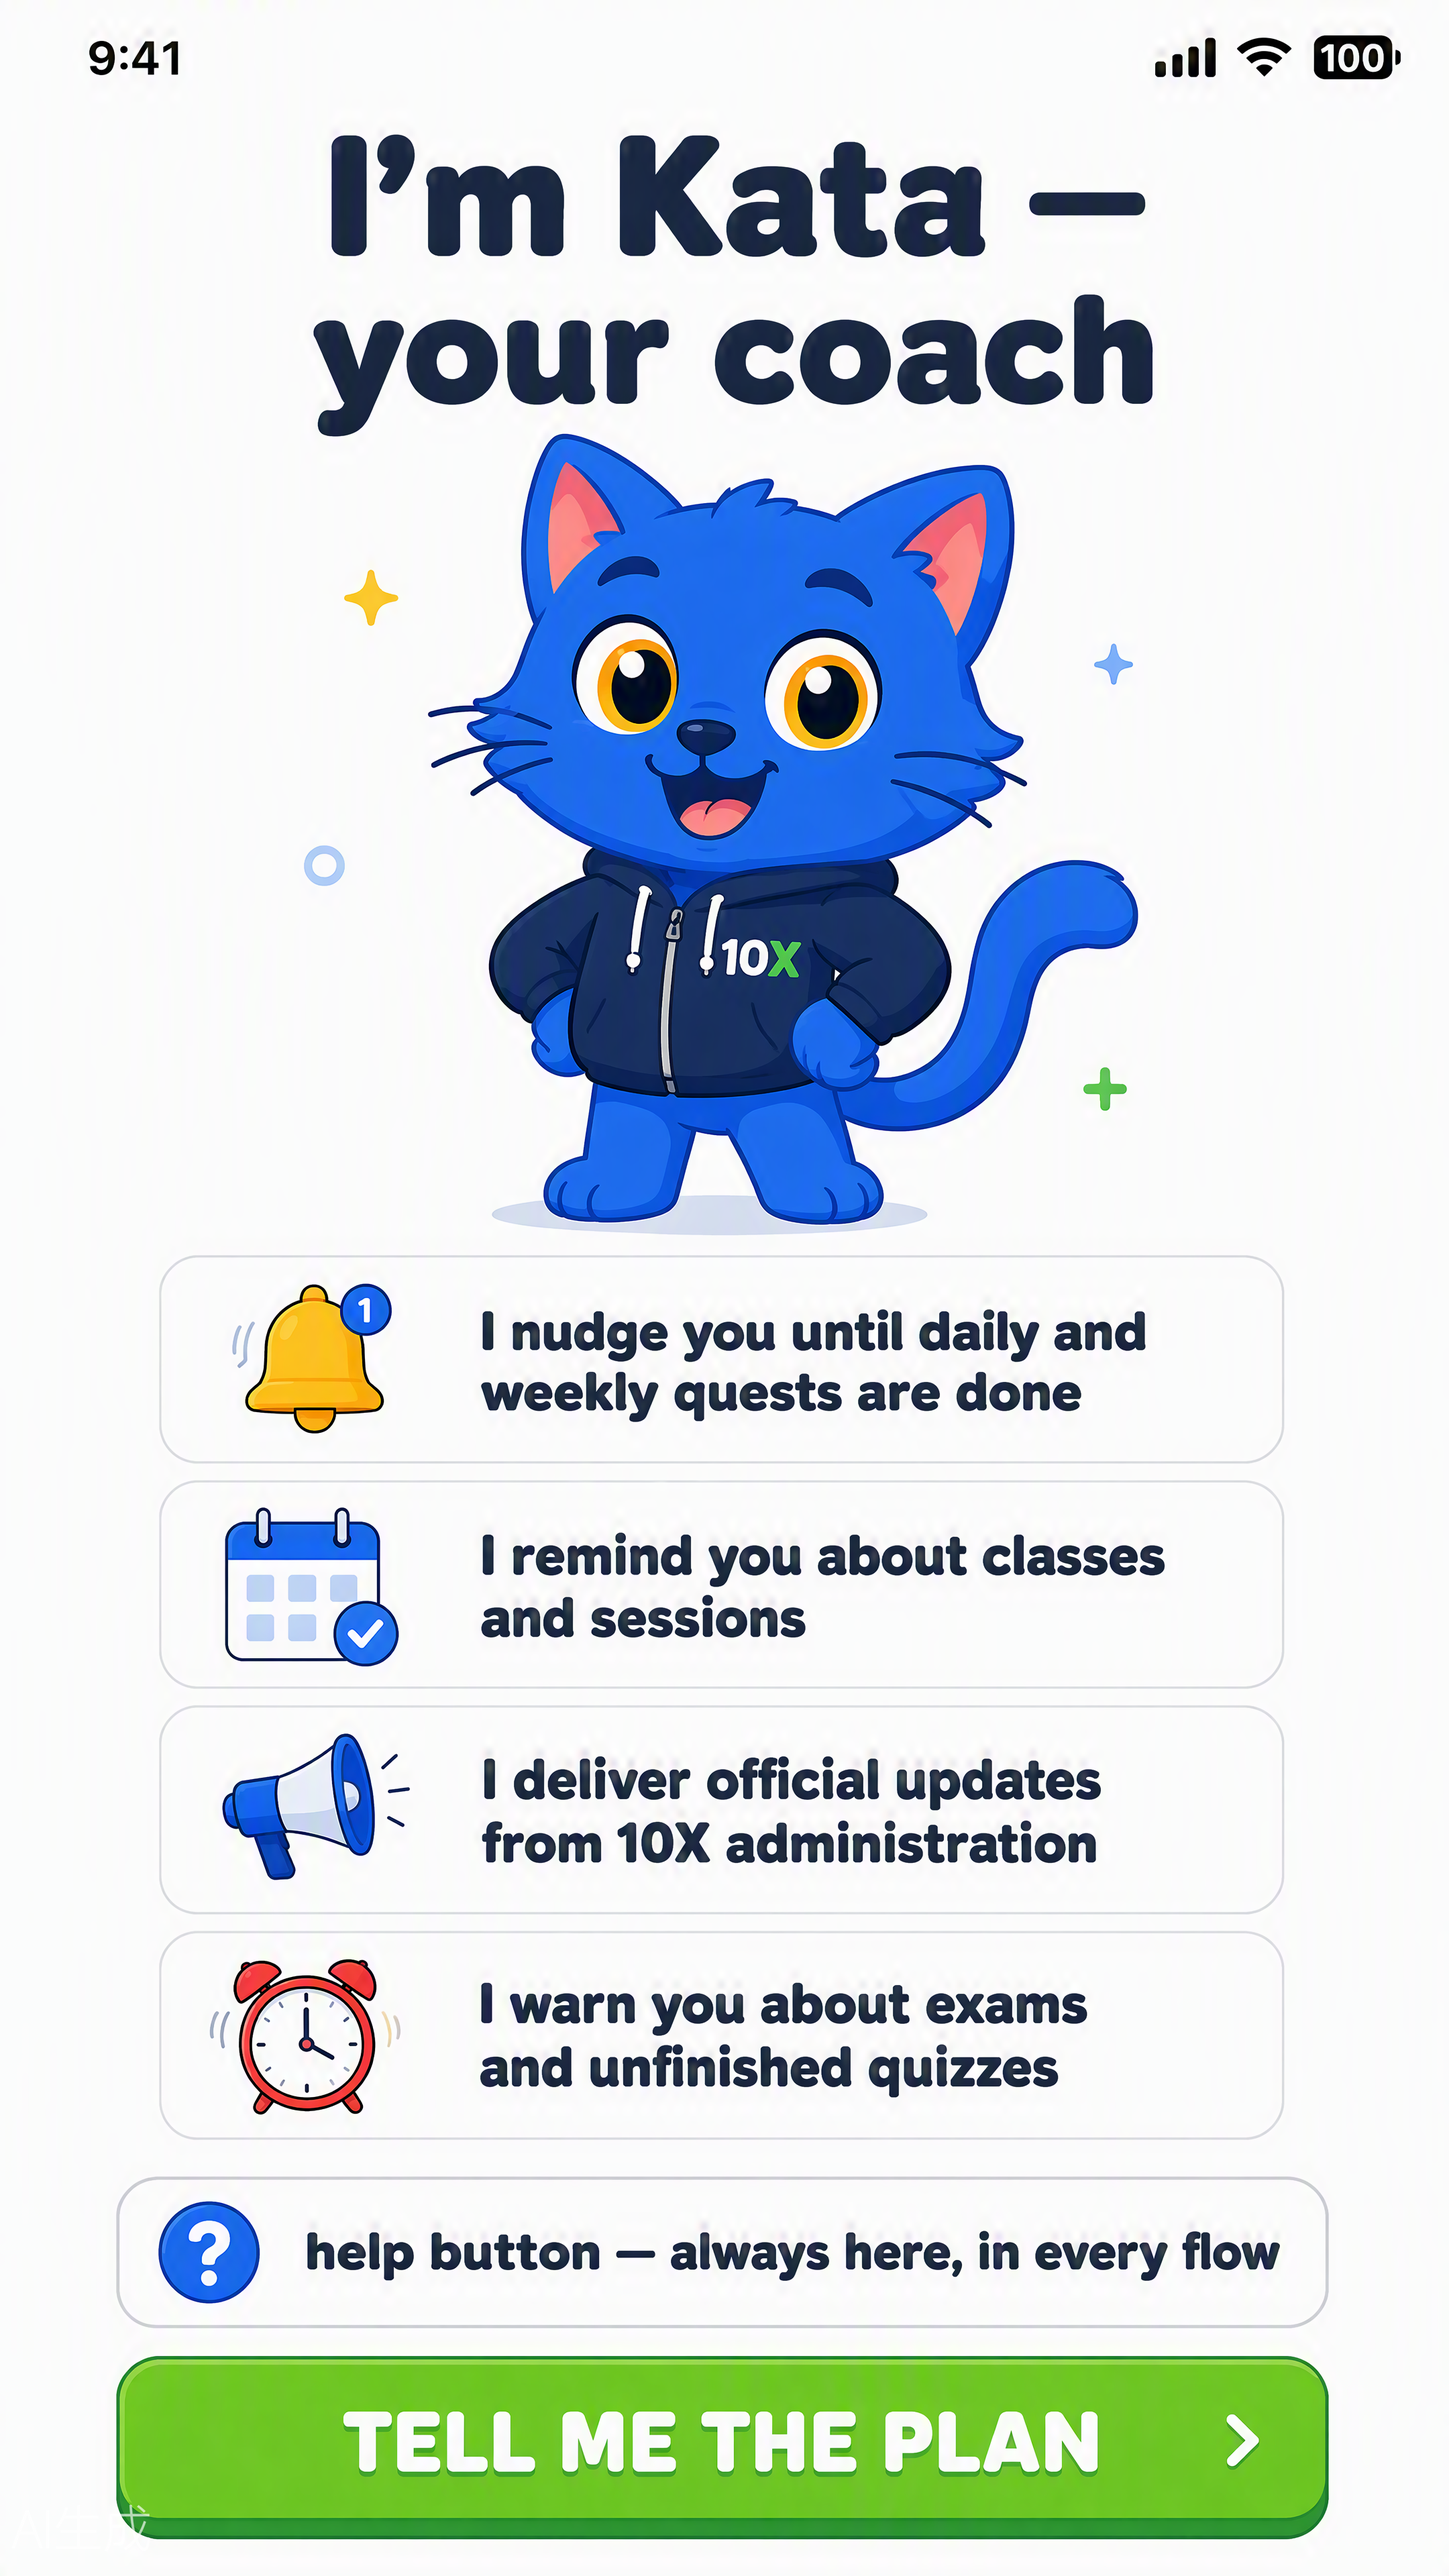
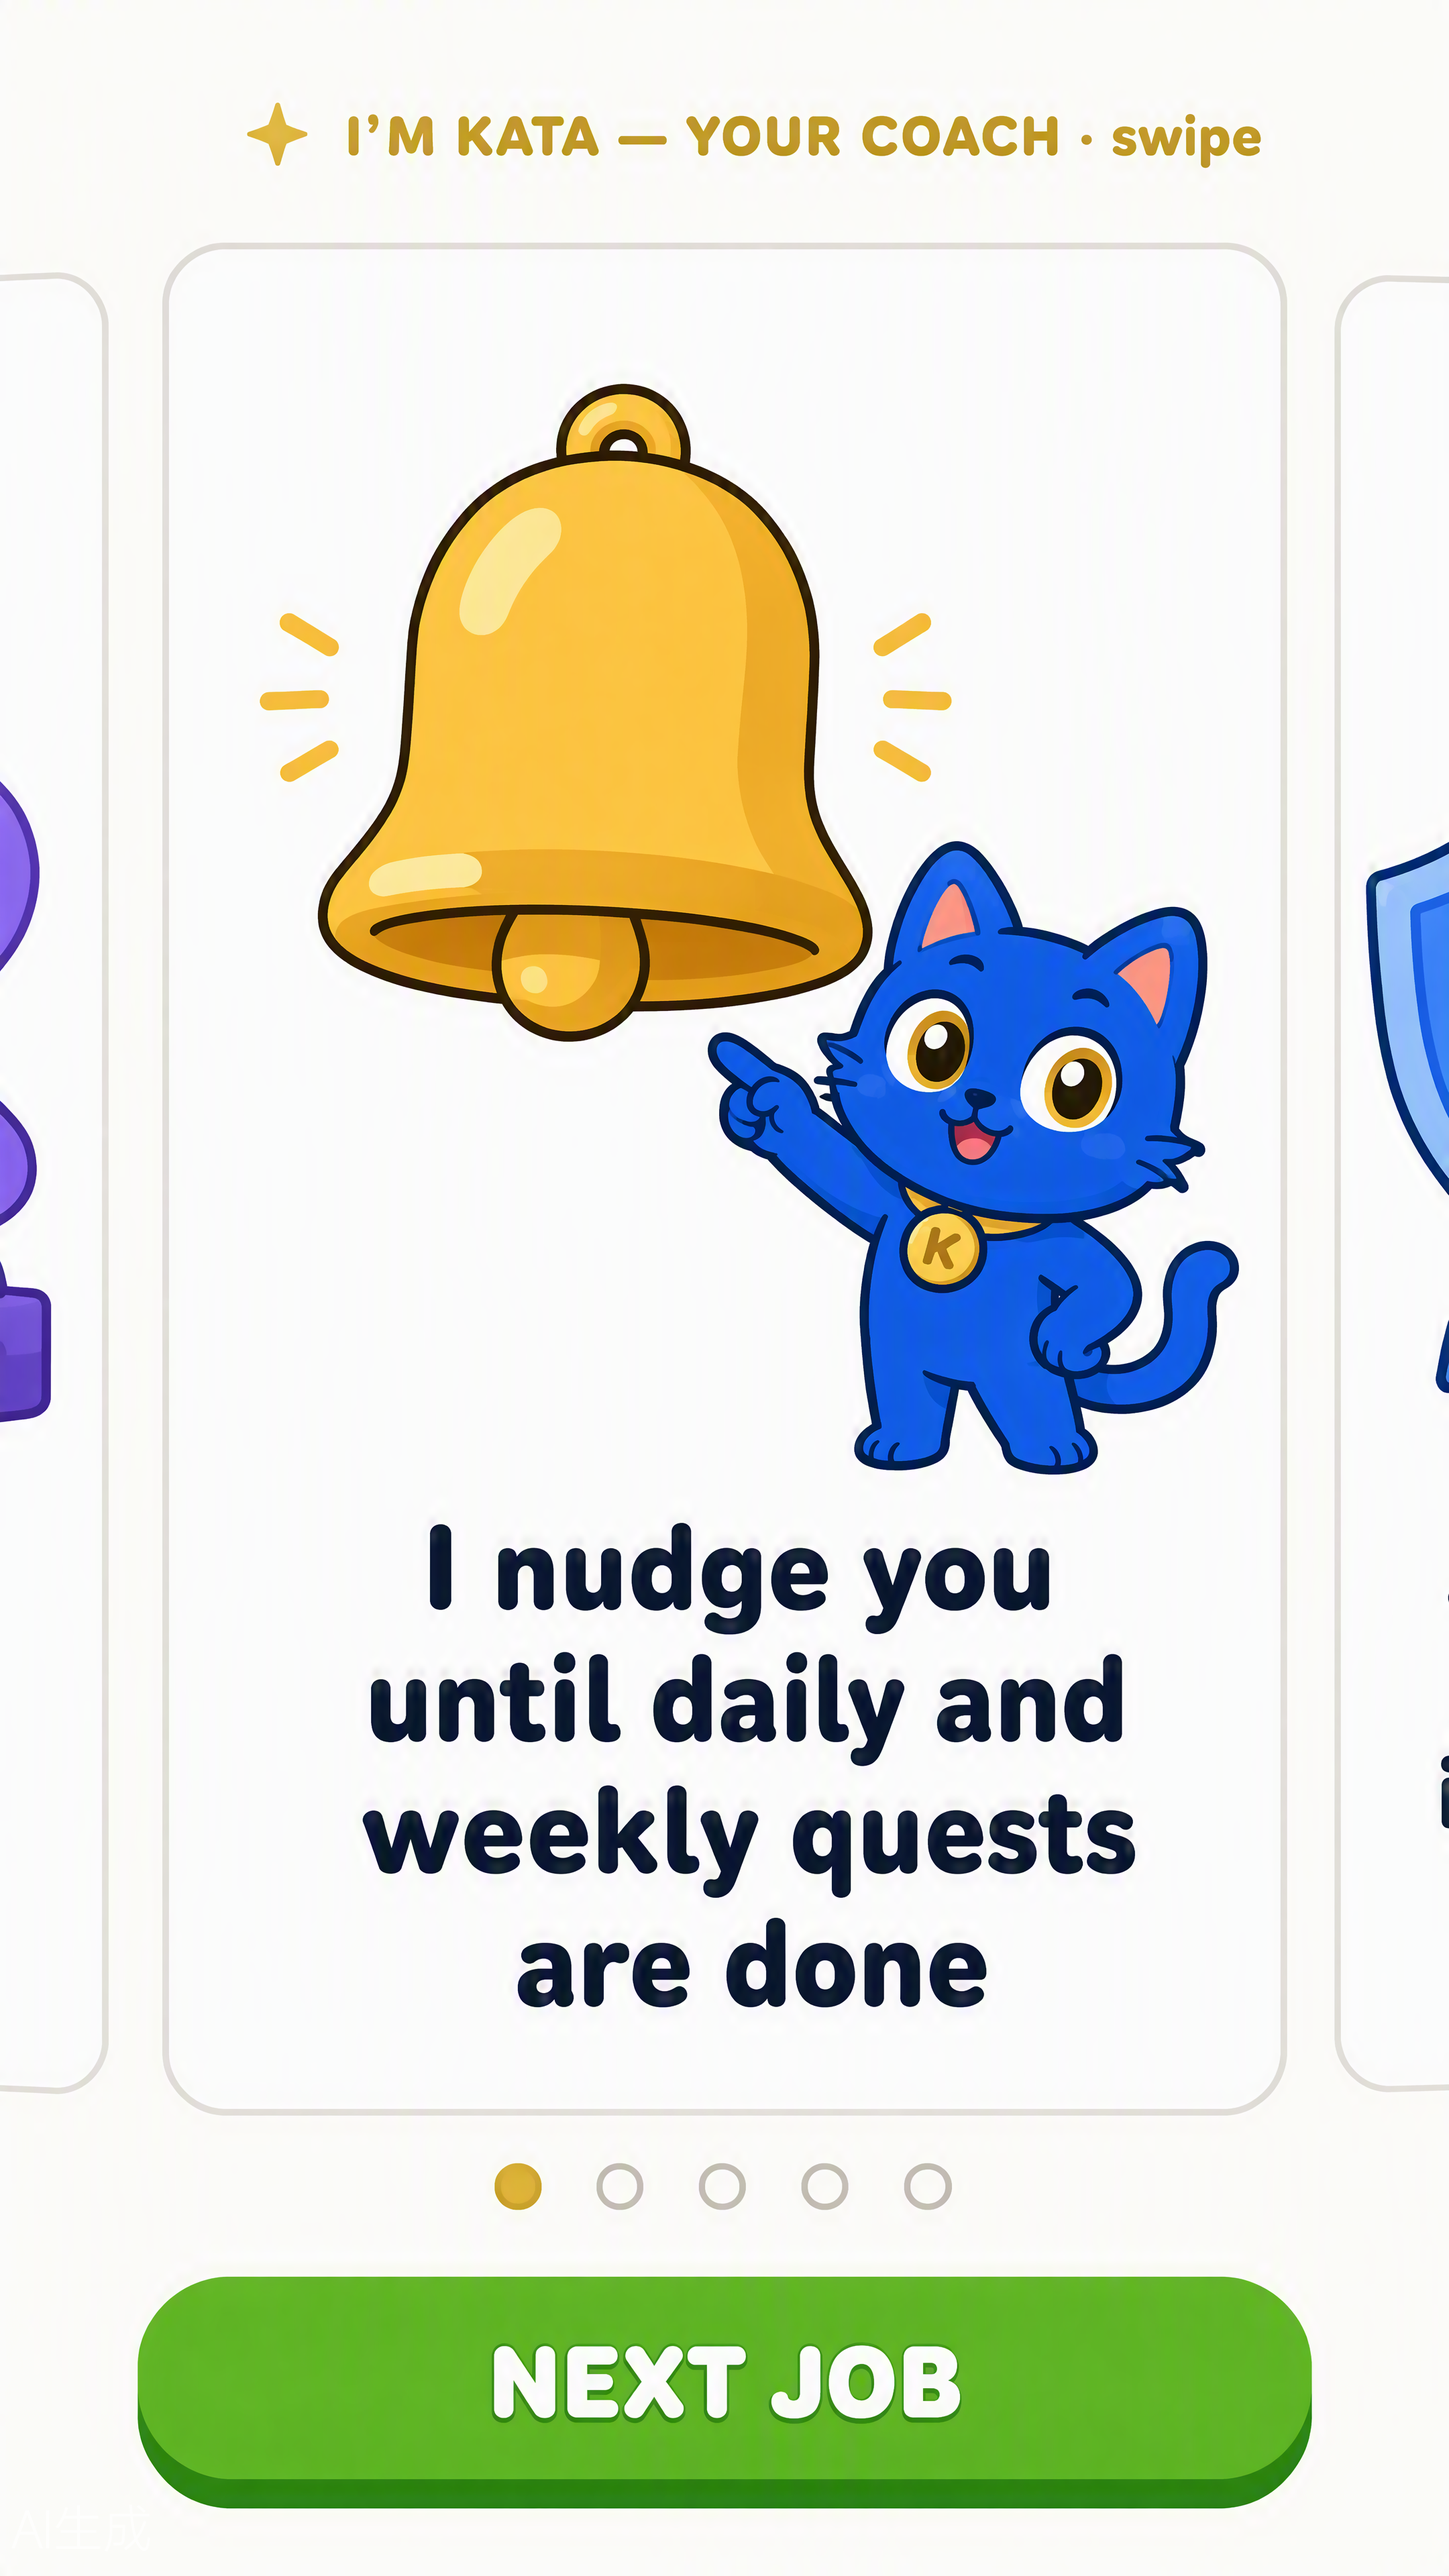
onboarding pack v4 + skill audit rule

diff --git a/design-onboarding-pack.html b/design-onboarding-pack.html
@@ -28,10 +28,10 @@ main{max-width:1500px;margin:0 auto;padding:34px 26px 100px}
 <div class="meta">redline anything → recook → lock → then EPIC-02 document with user stories + acceptance criteria</div>
 </div></header>
 <main>
-<div class="flow"><div class="fhead"><span class="no">FLOW 9</span><h2>Meet Kata — her job, printed</h2><span class="ids">RB-00</span></div><div class="fnarr">Before any form, Kata says what she actually does: nudges until daily/weekly quests are done, class & session reminders, official 10X administration updates, exam & unfinished-quiz warnings — and the help button lives in every flow.</div><div class="srow"><figure><div class="pf"><img src="assets/design/onboarding/kata-role.png"></div><figcaption>RB-00 · Kata's role + help button</figcaption></figure></div></div>
-<div class="flow"><div class="fhead"><span class="no">FLOW 10</span><h2>Your first 10 minutes — the onboarding roadmap</h2><span class="ids">RB-01</span></div><div class="fnarr">The whole setup as visible steps with course access granted up front: content, schedule, your group, the processes.</div><div class="srow"><figure><div class="pf"><img src="assets/design/onboarding/onboarding-roadmap.png"></div><figcaption>Roadmap info screen</figcaption></figure></div></div>
+<div class="flow"><div class="fhead"><span class="no">FLOW 9</span><h2>Meet Kata — her job, printed</h2><span class="ids">RB-00</span></div><div class="fnarr">Before any form, Kata says what she actually does — as a swipeable jobs carousel (Instagram-style), one job per card: quest nudges, class reminders, official updates, exam warnings, and the help button that lives in every flow.</div><div class="srow"><figure><div class="pf"><img src="assets/design/onboarding/kata-role.png"></div><figcaption>RB-00 · Job card 1/5 (carousel)</figcaption></figure><figure><div class="pf"><img src="assets/design/onboarding/kata-role-2.png"></div><figcaption>RB-00 · Job card 4/5 (carousel)</figcaption></figure></div></div>
+<div class="flow"><div class="fhead"><span class="no">FLOW 10</span><h2>Your first 10 minutes — the onboarding roadmap</h2><span class="ids">RB-01</span></div><div class="fnarr">The setup as a candy-crush map: a winding path of playful nodes going up — "meet Kata" checked, "pick your pace" glowing — with course access granted up front: content, schedule, your group, the processes.</div><div class="srow"><figure><div class="pf"><img src="assets/design/onboarding/onboarding-roadmap.png"></div><figcaption>Roadmap info screen</figcaption></figure></div></div>
 <div class="flow"><div class="fhead"><span class="no">FLOW 11</span><h2>Pick your pace — informative, not tiers</h2><span class="ids">RB-02</span></div><div class="fnarr">The carousel stays, the tier branding is gone. Plain time options (~10/~20/~30/~60/~90+ min) with the same honest outcomes for everyone — the student picks the time that is honest, not a badge. Admin-configurable later.</div><div class="srow"><figure><div class="pf"><img src="assets/design/onboarding/pace-v2.png"></div><figcaption>Pace carousel · informative, no tiers</figcaption></figure></div></div>
-<div class="flow"><div class="fhead"><span class="no">FLOW 12</span><h2>Choice summary + welcome rewards</h2><span class="ids">RB-03</span></div><div class="fnarr">The choice summarized with the honest rules: changeable anytime, scoring follows investment + completed tasks, switching never costs the streak. Gifts: +2 streak freezes, +50 aura points.</div><div class="srow"><figure><div class="pf"><img src="assets/design/onboarding/reward-summary.png"></div><figcaption>Summary + gifts</figcaption></figure></div></div>
+<div class="flow"><div class="fhead"><span class="no">FLOW 12</span><h2>Choice summary + welcome rewards</h2><span class="ids">RB-03</span></div><div class="fnarr">The choice summarized consistently with the pace picker (no tier names anywhere): changeable anytime, scoring follows investment + completed tasks, switching never costs the streak. Gifts: +2 streak freezes, +50 aura points.</div><div class="srow"><figure><div class="pf"><img src="assets/design/onboarding/reward-summary.png"></div><figcaption>Summary + gifts</figcaption></figure></div></div>
 <div class="flow"><div class="fhead"><span class="no">FLOW 13</span><h2>Rating — chess.com model, leagues by rating</h2><span class="ids">RB-04 · rating</span></div><div class="fnarr">Everyone starts at 1000. Learning, tasks, showing up push it up; skipped quizzes, missed lectures, silence pull it down. Leagues: Wooden · Iron · Bronze · **Silver (everyone starts here)** · Gold · Platinum · Obsidian. Exact scoring model documented by the team later.</div><div class="srow"><figure><div class="pf"><img src="assets/design/onboarding/rating-explainer.png"></div><figcaption>Rating 1000 + league ladder</figcaption></figure></div></div>
 <div class="flow"><div class="fhead"><span class="no">FLOW 14</span><h2>Placement quizzes — content + integrity</h2><span class="ids">RB-05 · quizzes</span></div><div class="fnarr">Two things live here: the school-configured placement quiz, and the **English check A2→C2** (set from back-office). Integrity rule: you may leave and resume — but never mid-quiz; over 1 minute away = inactivity error, the quiz closes, onboarding quizzes restart. Answers are never graded mid-quiz.</div><div class="srow"><figure><div class="pf"><img src="assets/design/onboarding/placement-quiz.png"></div><figcaption>Placement question 3/6</figcaption></figure><figure><div class="pf"><img src="assets/design/onboarding/english-test.png"></div><figcaption>English check · A2→C2</figcaption></figure><figure><div class="pf"><img src="assets/design/onboarding/inactivity-error.png"></div><figcaption>Inactivity error → restart</figcaption></figure></div></div>
 <div class="flow"><div class="fhead"><span class="no">FLOW 15</span><h2>The streak, honestly + the pet's scars</h2><span class="ids">RB-06 · streak</span></div><div class="fnarr">The truth, no padding: complete daily activities or the streak **resets to zero** — streak freezes on your balance are the only automatic save. And it's just **Rating** (1000 at start), moving only with activity. Kata carries the consequence visibly: **every broken streak leaves a scar on him** — a freeze prevents it.</div><div class="srow"><figure><div class="pf"><img src="assets/design/onboarding/streak-truth.png"></div><figcaption>Streak rules, honest</figcaption></figure><figure><div class="pf"><img src="assets/design/onboarding/pet-scars.png"></div><figcaption>Kata's scars = your broken streaks</figcaption></figure></div></div>
